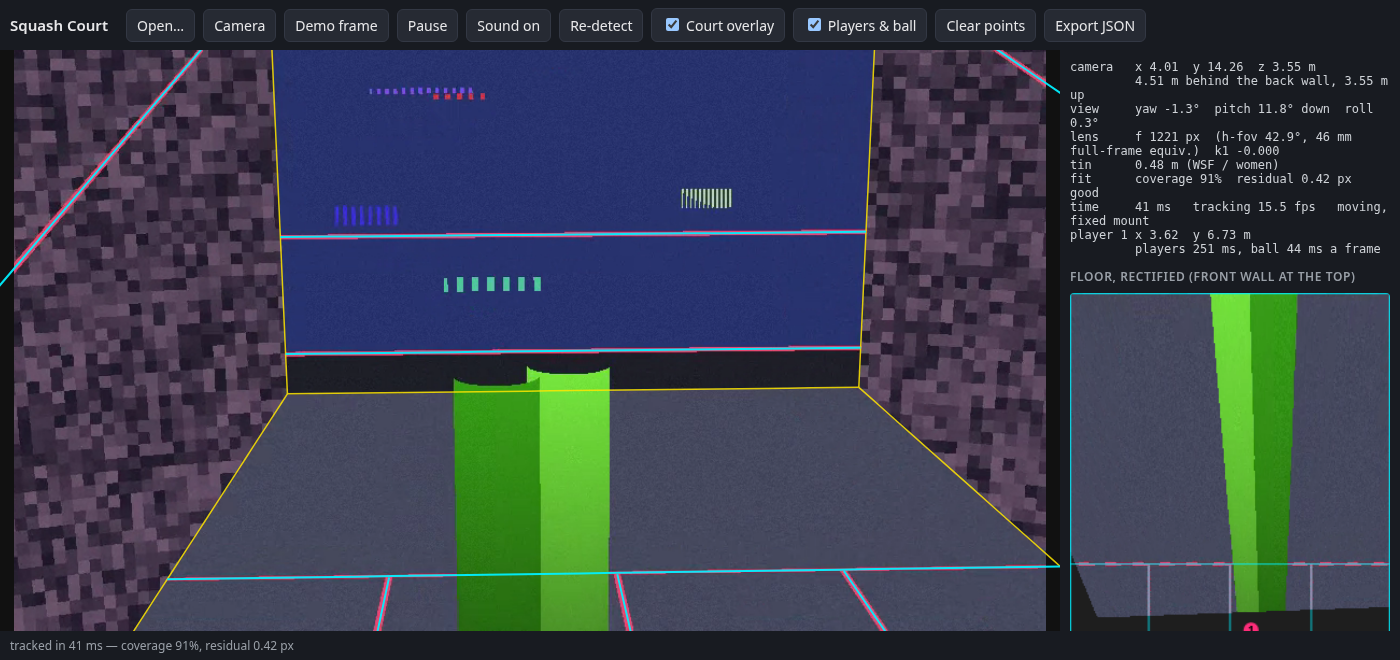
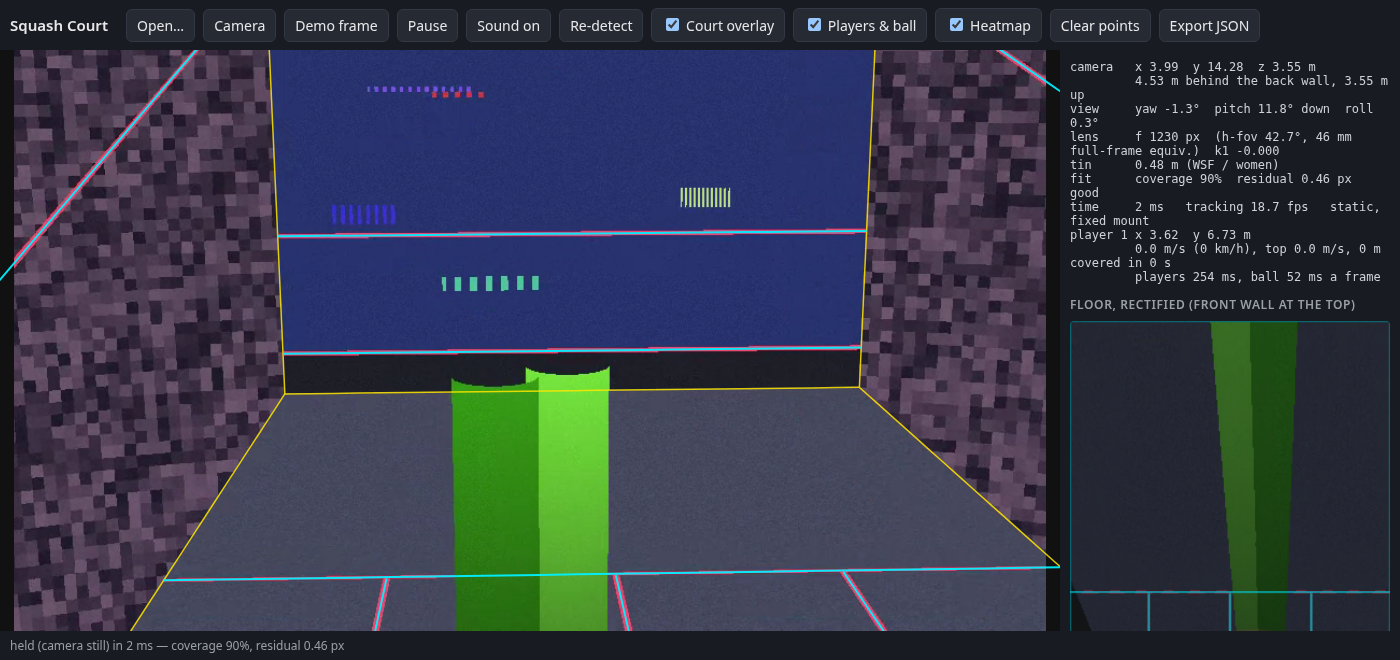
Squash Court: player and ball speeds, player heatmaps

diff --git a/vibes/squash-court/app.js b/vibes/squash-court/app.js
@@ -28,9 +28,43 @@ const S = {
   live: false, procFrame: null, sound: true,
   // players and ball (rally.js in the worker): players [{ id, X, seen, occluded, box }], the live
   // ball pixel, and fitted flights { t0, t1, pts: [{ t, X }], uv, impacts, labels, speed }
-  showRally: true, players: [], ball: null, ballTrail: [], flights: [], rallyMs: {},
+  showRally: true, showHeat: true, players: [], ball: null, ballTrail: [], flights: [], rallyMs: {},
 };
-const clearRally = () => { S.players = []; S.ball = null; S.ballTrail = []; S.flights = []; S.rallyMs = {}; for (const R of rallyW) R.reset = true; };
+// Per player: recent positions (speed), distance covered and time spent per 25 cm floor cell
+// (the heatmap). Kept in the page, fed by the players worker's tracked positions.
+const HM = 0.25, HX = Math.ceil(CW / HM), HY = Math.ceil(CL / HM);
+const newStats = () => ({});
+S.stats = newStats();
+function statFor(id) { return S.stats[id] ??= { hist: [], dist: 0, time: 0, heat: new Float32Array(HX * HY), last: null, speed: 0, top: 0 }; }
+function addPlayerStats(players, t) {
+  for (const p of players) {
+    const st = statFor(p.id);
+    if (st.last && t < st.last.t) { st.hist = []; st.last = null; } // seek back
+    const dt = st.last ? Math.min(0.5, t - st.last.t) : 0.2; // a still counts once
+    if (p.seen) {
+      const cx = Math.floor(p.X[0] / HM), cy = Math.floor(p.X[1] / HM);
+      if (cx >= 0 && cy >= 0 && cx < HX && cy < HY && dt > 0) { st.heat[cy * HX + cx] += dt; st.time += dt; }
+      if (st.last && dt > 0) st.dist += Math.hypot(p.X[0] - st.last.X[0], p.X[1] - st.last.X[1]);
+      st.hist.push({ t, X: p.X.slice() });
+    }
+    st.last = { t, X: p.X.slice() };
+    // speed: least-squares slope over the last 0.6 s (detections ~5 a second, feet jitter by cm)
+    st.hist = st.hist.filter((q) => q.t > t - 0.6);
+    if (st.hist.length >= 3) {
+      const n = st.hist.length, mt = st.hist.reduce((s, q) => s + q.t, 0) / n, mx = st.hist.reduce((s, q) => s + q.X[0], 0) / n, my = st.hist.reduce((s, q) => s + q.X[1], 0) / n;
+      let tt = 0, tx = 0, ty = 0; for (const q of st.hist) { const d = q.t - mt; tt += d * d; tx += d * (q.X[0] - mx); ty += d * (q.X[1] - my); }
+      st.speed = tt > 1e-6 ? Math.hypot(tx / tt, ty / tt) : 0; st.top = Math.max(st.top, Math.min(st.speed, 8));
+    } else st.speed = 0;
+  }
+}
+// the ball's speed now: the fitted flight's velocity at the frame nearest the current time
+function ballNow() {
+  const t = S.src?.currentTime; if (t == null) return null;
+  for (const f of S.flights) if (t >= f.t0 - 0.02 && t <= f.t1 + 0.02) { const q = f.pts.reduce((a, b) => (Math.abs(b.t - t) < Math.abs(a.t - t) ? b : a)); if (q.V) return { X: q.X, speed: Math.hypot(...q.V) }; }
+  return null;
+}
+const kmh = (v) => `${v.toFixed(1)} m/s (${(v * 3.6).toFixed(0)} km/h)`;
+const clearRally = () => { S.stats = newStats(); S.players = []; S.ball = null; S.ballTrail = []; S.flights = []; S.rallyMs = {}; for (const R of rallyW) R.reset = true; };
 window.__sq = S;
 
 // ---------- worker ----------
@@ -107,7 +141,7 @@ async function analyse(mode = 'detect') {
 function takeRally(q, k) {
   if (q.dup || !S.showRally) return;
   S.rallyMs[q.mode === 'ball' ? 'ball' : 'players'] = q.ms;
-  if (q.players) S.players = q.players.map((p) => ({ ...p, box: p.box && p.box.map((v) => v / k) }));
+  if (q.players) { S.players = q.players.map((p) => ({ ...p, box: p.box && p.box.map((v) => v / k) })); addPlayerStats(S.players, S.src.currentTime ?? 0); }
   if (q.mode !== 'ball') return;
   S.ball = q.ball && { u: q.ball.u / k, v: q.ball.v / k, t: q.ball.t };
   if (S.ball) S.ballTrail.push(S.ball);
@@ -232,7 +266,7 @@ function drawRallyStage(map, dpr) {
     for (let a = 0; a <= 24; a++) { const u = c.project([p.X[0] + 0.28 * Math.cos(a / 24 * 2 * Math.PI), p.X[1] + 0.28 * Math.sin(a / 24 * 2 * Math.PI), 0]); if (!(u[2] > 0)) continue; const [x, y] = map(u); first ? sctx.moveTo(x, y) : sctx.lineTo(x, y); first = false; }
     sctx.stroke(); sctx.setLineDash([]);
     const u = c.project([p.X[0], p.X[1], 0]); if (!(u[2] > 0)) continue; const [x, y] = map(u);
-    sctx.font = `${12 * dpr}px system-ui`; sctx.fillStyle = '#000a'; const s = `P${p.id}  ${p.X[0].toFixed(2)}, ${p.X[1].toFixed(2)} m`;
+    sctx.font = `${12 * dpr}px system-ui`; sctx.fillStyle = '#000a'; const sp = S.stats[p.id]?.speed, s = `P${p.id}  ${p.X[0].toFixed(2)}, ${p.X[1].toFixed(2)} m${sp > 0.3 ? `  ${sp.toFixed(1)} m/s` : ''}`;
     sctx.fillRect(x + 14 * dpr, y - 6 * dpr, sctx.measureText(s).width + 6 * dpr, 16 * dpr); sctx.fillStyle = pcol(p); sctx.fillText(s, x + 17 * dpr, y + 6 * dpr);
   }
   sctx.lineWidth = 2.5 * dpr;
@@ -242,6 +276,7 @@ function drawRallyStage(map, dpr) {
     sctx.stroke();
     for (const m of f.impacts) { const u = c.project(m.X); if (!(u[2] > 0)) continue; const [x, y] = map(u); sctx.fillStyle = '#ff8a00'; sctx.beginPath(); sctx.arc(x, y, 4 * dpr, 0, 7); sctx.fill(); }
   }
+  const bn = ballNow(); if (bn) { const u = c.project(bn.X); if (u[2] > 0) { const [x, y] = map(u); sctx.font = `${12 * dpr}px system-ui`; sctx.fillStyle = '#ffe600'; sctx.fillText(`${(bn.speed * 3.6).toFixed(0)} km/h`, x + 9 * dpr, y - 9 * dpr); sctx.beginPath(); sctx.arc(x, y, 4 * dpr, 0, 7); sctx.fill(); } }
   sctx.strokeStyle = '#39ff6a'; sctx.lineWidth = 1.5 * dpr;
   for (const b of S.ballTrail) { const [x, y] = map([b.u, b.v]); sctx.strokeRect(x - 6 * dpr, y - 6 * dpr, 12 * dpr, 12 * dpr); }
 }
@@ -268,6 +303,7 @@ function drawPlan() {
   for (const l of MODEL.lines) if (l.kind === 'floor') { pctx.beginPath(); pctx.moveTo(l.a[0] * s, l.a[1] * s); pctx.lineTo(l.b[0] * s, l.b[1] * s); pctx.stroke(); }
   pctx.strokeRect(0.5, 0.5, plan.width - 1, plan.height - 1);
   for (const p of S.picks) if (p.surface === 'floor') { pctx.fillStyle = '#ff2d7a'; pctx.beginPath(); pctx.arc(p.X[0] * s, p.X[1] * s, 4, 0, 7); pctx.fill(); }
+  if (S.showHeat) drawHeat(s);
   if (S.showRally) {
     // the ball's ground track (shadow), floor bounces, players
     for (const f of recentFlights()) {
@@ -282,6 +318,29 @@ function drawPlan() {
   }
   // where the camera stands, if it is on the plan
   if (S.cam) { const C = S.cam.C; pctx.fillStyle = '#ffe600'; pctx.fillText(C[1] > CL ? `▼ camera ${(C[1] - CL).toFixed(1)} m behind` : '● camera', Math.max(4, Math.min(plan.width - 90, C[0] * s - 20)), Math.min(plan.height - 6, C[1] * s)); }
+}
+// Heatmap: time each player spent per 25 cm cell, blurred, in the player's colour, each scaled to
+// its own busiest cell. Drawn small and scaled up, so the canvas smooths it.
+const heatCnv = document.createElement('canvas'); heatCnv.width = HX; heatCnv.height = HY;
+function drawHeat(s) {
+  const hc = heatCnv.getContext('2d'), img = hc.createImageData(HX, HY), ids = Object.keys(S.stats);
+  const blur = (a) => { const o = new Float32Array(a.length); for (let y = 0; y < HY; y++) for (let x = 0; x < HX; x++) { let v = 0, w = 0; for (let j = -1; j <= 1; j++) for (let i = -1; i <= 1; i++) { const X = x + i, Y = y + j; if (X < 0 || Y < 0 || X >= HX || Y >= HY) continue; const k = i || j ? (i && j ? 0.25 : 0.5) : 1; v += a[Y * HX + X] * k; w += k; } o[y * HX + x] = v / w; } return o; };
+  for (const id of ids) {
+    const h = blur(S.stats[id].heat), mx = Math.max(...h); if (!(mx > 0)) continue;
+    const c = PCOL[(id - 1) % PCOL.length], rgb = [1, 3, 5].map((i) => parseInt(c.slice(i, i + 2), 16));
+    for (let i = 0; i < h.length; i++) {
+      const a = Math.sqrt(h[i] / mx); if (a < 0.04) continue;
+      const o = i * 4, A = img.data[o + 3] / 255, al = Math.min(1, a * 0.85);
+      for (let k = 0; k < 3; k++) img.data[o + k] = (img.data[o + k] * A + rgb[k] * al) / Math.max(1e-6, A + al);
+      img.data[o + 3] = Math.min(255, (A + al - A * al) * 255);
+    }
+  }
+  hc.putImageData(img, 0, 0);
+  if (ids.length) { pctx.fillStyle = 'rgba(10,12,16,0.55)'; pctx.fillRect(0, 0, plan.width, plan.height); } // dim the floor so the heat reads
+  pctx.save(); pctx.imageSmoothingEnabled = true; pctx.globalAlpha = 0.9; pctx.drawImage(heatCnv, 0, 0, HX * HM * s, HY * HM * s); pctx.restore();
+  // the court lines again on top
+  pctx.strokeStyle = 'rgba(0,240,255,0.8)'; pctx.lineWidth = 1;
+  for (const l of MODEL.lines) if (l.kind === 'floor') { pctx.beginPath(); pctx.moveTo(l.a[0] * s, l.a[1] * s); pctx.lineTo(l.b[0] * s, l.b[1] * s); pctx.stroke(); }
 }
 function drawWall() {
   const s = wall.width / CW; // front wall, 0 … 5 m high
@@ -332,9 +391,10 @@ function readout() {
     `time     ${S.ms ? Math.round(S.ms.wall) + ' ms' : ''}${hz ? `   tracking ${hz.toFixed(1)} fps` : ''}${S.live && S.path ? `   ${S.path}${S.mount === 'free' ? ', camera moving' : ', fixed mount'}` : ''}`,
   ];
   if (S.showRally) {
-    for (const p of S.players) lines.push(`player ${p.id} x ${p.X[0].toFixed(2)}  y ${p.X[1].toFixed(2)} m${p.occluded ? '  (feet hidden: from the head)' : ''}${p.seen ? '' : '  (coasting)'}`);
+    for (const p of S.players) { const st = S.stats[p.id]; lines.push(`player ${p.id} x ${p.X[0].toFixed(2)}  y ${p.X[1].toFixed(2)} m${p.occluded ? '  (feet hidden: from the head)' : ''}${p.seen ? '' : '  (coasting)'}`); if (st && S.live) lines.push(`         ${kmh(st.speed)}, top ${st.top.toFixed(1)} m/s, ${st.dist.toFixed(0)} m covered in ${st.time.toFixed(0)} s`); }
+    const bn = ballNow(); if (bn) lines.push(`ball now ${kmh(bn.speed)}`);
     const f = recentFlights().slice(-1)[0];
-    if (f) { const a = f.pts[0].X, e = f.pts[f.pts.length - 1].X, v = (X) => `${X[0].toFixed(1)}, ${X[1].toFixed(1)}, ${X[2].toFixed(1)}`; lines.push(`ball     ${f.t0.toFixed(2)}–${f.t1.toFixed(2)} s  (${v(a)}) → (${v(e)}) m, ${f.speed.toFixed(0)} m/s${f.impacts.length ? '  hit ' + f.impacts.map((m) => m.plane).join(', ') : ''}`); }
+    if (f) { const a = f.pts[0].X, e = f.pts[f.pts.length - 1].X, v = (X) => `${X[0].toFixed(1)}, ${X[1].toFixed(1)}, ${X[2].toFixed(1)}`; lines.push(`ball     ${f.t0.toFixed(2)}–${f.t1.toFixed(2)} s  (${v(a)}) → (${v(e)}) m, ${(f.speed * 3.6).toFixed(0)} km/h off the hit${f.impacts.length ? '  hit ' + f.impacts.map((m) => m.plane).join(', ') : ''}`); }
     if (S.rallyMs.players != null) lines.push(`         players ${Math.round(S.rallyMs.players)} ms${S.rallyMs.ball != null ? `, ball ${Math.round(S.rallyMs.ball)} ms` : ''} a frame`);
   }
   if (S.truth && !S.live) lines.push(`truth    x ${S.truth.C[0].toFixed(2)}  y ${S.truth.C[1].toFixed(2)}  z ${S.truth.C[2].toFixed(2)} m, f ${S.truth.f.toFixed(0)} px`);
@@ -354,7 +414,8 @@ function exportJSON() {
     P: c.matrix(), H_floor: c.homography('floor'), H_frontWall: c.homography('front'),
     angles: c.angles(), quality: S.quality,
     time: S.src?.currentTime ?? null,
-    players: S.players.map((p) => ({ id: p.id, x: p.X[0], y: p.X[1], seen: p.seen, feetHidden: p.occluded })),
+    players: S.players.map((p) => ({ id: p.id, x: p.X[0], y: p.X[1], seen: p.seen, feetHidden: p.occluded, speed: S.stats[p.id]?.speed ?? null })),
+    playerStats: Object.fromEntries(Object.entries(S.stats).map(([id, st]) => [id, { distance: st.dist, seconds: st.time, topSpeed: st.top, heatmap: { cell: HM, nx: HX, ny: HY, note: 'seconds per cell, row-major from x = 0, y = 0', seconds: Array.from(st.heat, (v) => +v.toFixed(3)) } }])),
     ball: S.flights.map((f) => ({ t0: f.t0, t1: f.t1, speed: f.speed, impacts: f.impacts, points: f.pts })),
   };
   const a = document.createElement('a'); a.href = URL.createObjectURL(new Blob([JSON.stringify(data, null, 2)], { type: 'application/json' })); a.download = 'squash-court.json'; a.click();
@@ -367,6 +428,7 @@ $('camera').onclick = useCamera;
 $('demo').onclick = demo;
 $('redetect').onclick = () => { S.fails = 9; if (!S.live) analyse('detect'); };
 $('lines').onchange = (e) => { S.showLines = e.target.checked; draw(); };
+$('heat').onchange = (e) => { S.showHeat = e.target.checked; draw(); };
 $('rally').onchange = (e) => { S.showRally = e.target.checked; clearRally(); if (S.showRally && !S.live && S.cam && S.procFrame) runRally(S.procFrame, scaleCam(S.cam, S.procFrame.k, S.procFrame.img.width, S.procFrame.img.height), 0, false); draw(); };
 $('export').onclick = exportJSON;
 $('clear').onclick = () => { S.picks = []; draw(); };

diff --git a/vibes/squash-court/players.js b/vibes/squash-court/players.js
@@ -145,7 +145,7 @@ export function detectPlayers(rgba, W, H, cam, opt = {}) {
   // sits on top of the score bug)
   const hidden = new Uint8Array(w * h), rects = opt.overlays ?? findOverlays(rgba, W, H);
   for (const [x0, y0, x1, y1] of rects) {
-    const mx = 0.012 * W, my = 0.65 * (y1 - y0);
+    const mx = 0.012 * W, my = 0.2 * (y1 - y0);
     for (let y = Math.max(0, Math.floor((y0 - my) / S.k)); y < Math.min(h, Math.ceil((y1 + 0.01 * H) / S.k)); y++) for (let x = Math.max(0, Math.floor((x0 - mx) / S.k)); x < Math.min(w, Math.ceil((x1 + mx) / S.k)); x++) hidden[y * w + x] = 1;
   }
   if (opt.staticMask) for (let i = 0; i < w * h; i++) if (opt.staticMask(i)) hidden[i] = 1;
@@ -237,7 +237,17 @@ function refineFeet(fg, S, cam, w, h, hidden, hit, boxAt, opt) {
   const rowHidden = (y) => { for (let x = Math.max(0, cx0); x <= Math.min(w - 1, cx1); x++) if (hidden[y * w + x]) return true; return false; };
   let y = Math.round(B.y0 + 0.5 * Hp), last = -1, gap = 0;
   while (y > B.y0 && rowHidden(y)) y--; // the box's middle is behind a graphic: start above it
-  for (; y < Math.min(h, B.y1 + 0.3 * Hp); y++) { if (rowHas(y) >= 2) { last = y; gap = 0; } else if (++gap > Math.max(3, 0.15 * Hp)) break; }
+  let lim = Math.min(h, B.y1 + 0.3 * Hp);
+  for (; y < lim; y++) {
+    if (rowHas(y) >= 2) { last = y; gap = 0; continue; }
+    if (rowHidden(y)) {
+      // a graphic across the legs: the feet may show below it (a player in front of the score bug)
+      let y2 = y; while (y2 < h && rowHidden(y2)) y2++;
+      let below = -1; for (let yy = y2; yy < Math.min(h, y2 + Math.max(3, 0.15 * Hp)); yy++) if (rowHas(yy) >= 2) { below = yy; break; }
+      if (below >= 0 && last >= 0 && below - last < 0.7 * Hp) { y = below - 1; gap = 0; lim = Math.min(h, Math.max(lim, below + 0.3 * Hp)); continue; }
+    }
+    if (++gap > Math.max(3, 0.15 * Hp)) break;
+  }
   if (last < 0) return { why: 'no fg below' };
   if (last >= h - 2) return { why: 'feet below frame' }; // the feet are below the frame
   // a graphic right below: the feet may be behind it, unless the person above is complete
@@ -340,6 +350,8 @@ export class PlayerTracker {
       k.t = t; k.miss = 0; k.det = d; done.add(k); used.add(d);
     }
     for (const k of T) if (!done.has(k)) { k.miss++; k.det = null; k.X = k.pred; k.t = t; k.v = k.v.map((v) => v * 0.7); }
+    // a coasting (or noisy) track stays in the court and stops at its walls
+    for (const k of T) { const c = [Math.max(-0.1, Math.min(CW + 0.1, k.X[0])), Math.max(0.1, Math.min(CL + 0.1, k.X[1]))]; if (c[0] !== k.X[0]) k.v[0] = 0; if (c[1] !== k.X[1]) k.v[1] = 0; k.X = c; }
     this.tracks = T.filter((k) => k.miss < 12);
     for (const d of dets) if (!used.has(d) && this.tracks.length < 2) this.tracks.push({ id: this.nextId(), X: d.X.slice(), v: [0, 0], t, miss: 0, det: d });
     return this.tracks.map((k) => ({ id: k.id, X: k.X.slice(), v: k.v.slice(), seen: k.miss === 0, occluded: !!k.det?.occluded }));

diff --git a/vibes/squash-court/rally.js b/vibes/squash-court/rally.js
@@ -83,6 +83,9 @@ export class Rally {
     const span = Math.hypot(pts[pts.length - 1].u - pts[0].u, pts[pts.length - 1].v - pts[0].v);
     let path = 0; for (let i = 1; i < pts.length; i++) path += Math.hypot(pts[i].u - pts[i - 1].u, pts[i].v - pts[i - 1].v);
     if (span < 12 * s || span / (pts[pts.length - 1].t - pts[0].t) < 150 * s) return null; // still, or drifting: a spectator, a reflection, a racket held up
+    // cheap first: a flight's image path is smooth in time (a quadratic fits it to a few px; tracks
+    // here do not join across impacts), a jittering limb or reflection is not. Only those go to 3D.
+    if (smooth2D(pts) > 8 * Math.max(1, s)) return null;
     const segs = cutTrack(pts, cam, { tol: 2.5 * Math.max(1, s) });
     if (!segs.length) return null;
     const used = segs.reduce((n, [a, b]) => n + b - a + 1, 0);
@@ -95,11 +98,28 @@ export class Rally {
     if (speeds.some((v) => v > 75) || Math.max(...speeds) < 4) return null; // slower than a drop shot: a spectator through the glass
     return {
       t0: pts[0].t, t1: pts[pts.length - 1].t, rms: F.rms, labels: F.labels, speed: Math.max(...speeds),
-      pts: P3.map((q) => ({ t: q.t, X: q.X })), uv: pts.map((q) => [q.u, q.v]),
+      pts: P3.map((q) => ({ t: q.t, X: q.X, V: q.V })), uv: pts.map((q) => [q.u, q.v]),
       impacts: F.impacts.map((m) => ({ t: m.t, X: m.X, plane: m.plane })),
     };
   }
 }
 
+// rms (px) of the best quadratic in time through a track's u and v
+function smooth2D(pts) {
+  const t0 = pts[0].t, T = pts.map((p) => p.t - t0), n = pts.length;
+  const fit = (y) => { // least squares y = a + b t + c t^2 via normal equations
+    const S = [0, 0, 0, 0, 0], R = [0, 0, 0];
+    for (let i = 0; i < n; i++) { let p = 1; for (let k = 0; k < 5; k++) { S[k] += p; if (k < 3) R[k] += p * y[i]; p *= T[i]; } }
+    const M = [[S[0], S[1], S[2]], [S[1], S[2], S[3]], [S[2], S[3], S[4]]], x = solve3(M, R);
+    if (!x) return Infinity;
+    let e = 0; for (let i = 0; i < n; i++) { const d = x[0] + x[1] * T[i] + x[2] * T[i] * T[i] - y[i]; e += d * d; } return e / n;
+  };
+  return Math.sqrt(fit(pts.map((p) => p.u)) + fit(pts.map((p) => p.v)));
+}
+function solve3(M, r) {
+  const d = (m) => m[0][0] * (m[1][1] * m[2][2] - m[1][2] * m[2][1]) - m[0][1] * (m[1][0] * m[2][2] - m[1][2] * m[2][0]) + m[0][2] * (m[1][0] * m[2][1] - m[1][1] * m[2][0]);
+  const D = d(M); if (Math.abs(D) < 1e-18) return null;
+  return [0, 1, 2].map((j) => d(M.map((row, i) => row.map((v, k) => (k === j ? r[i] : v)))) / D);
+}
 const now = () => (typeof performance !== 'undefined' ? performance.now() : Date.now());
 function meanDiff(a, b) { let s = 0; const n = Math.min(a.length, b.length), step = 7; let m = 0; for (let i = 0; i < n; i += step) { s += Math.abs(a[i] - b[i]); m++; } return s / m; }

diff --git a/vibes/squash-court/smoke.js b/vibes/squash-court/smoke.js
@@ -80,6 +80,9 @@ const check = (name, ok, extra = '') => { console.log(`${ok ? 'ok  ' : 'FAIL'} $
     check('video tracked frame to frame', v.trk.length >= 2 && fps > 8, `${v.frames - f0} frames analysed in the last 1 s, tracking ${fps.toFixed(1)} fps (last: worker ${v.wms?.total?.toFixed(1)} ms of ${v.wms?.wall?.toFixed(1)} ms)`);
     check('tracked camera follows the clip (within 25 cm)', best < 0.25 && v.ok, `${(best * 100).toFixed(1)} cm at ${v.t.toFixed(2)} s (${v.path}, ${v.mount} mount, analysed ${v.tA?.toFixed(2)} s)`);
     const vp = await b.evaluate(`({n:__sq.players.length,ms:__sq.rallyMs.players,mb:__sq.rallyMs.ball,X:__sq.players.map(p=>p.X.map(v=>+v.toFixed(2)))})`);
+    await waitFor(() => b.evaluate('__sq.players.length > 0 && __sq.rallyMs.players != null'), 10000).catch(() => {});
+    const hs = await b.evaluate(`(()=>{const st=Object.values(__sq.stats);return {n:st.length,sec:st.reduce((s,q)=>s+q.heat.reduce((a,v)=>a+v,0),0),sp:st.map(q=>q.speed)}})()`);
+    check('video: heatmap and player speeds accumulate', hs.n > 0 && hs.sec > 0.1 && hs.sp.every((v) => v >= 0 && v < 9), `${hs.n} players, ${hs.sec.toFixed(1)} s in the heatmap, speeds ${hs.sp.map((v) => v.toFixed(1)).join(', ')} m/s`);
     check('video: players and ball run in their own workers', vp.n > 0 && vp.ms != null && vp.mb != null, `${vp.n} players ${JSON.stringify(vp.X)}, players ${Math.round(vp.ms)} ms, ball ${Math.round(vp.mb)} ms a frame`);
     await shot('video');
     const errors = [];

diff --git a/vibes/squash-court/overlays.js b/vibes/squash-court/overlays.js
@@ -44,6 +44,16 @@ export function findOverlays(rgba, W, H, opt = {}) {
       rects.push([grow(Math.max(a.x0, b.x0), -1) * k, a.y0 * k, (grow(Math.min(a.x1, b.x1), 1) + 1) * k, (b.y + 1) * k]);
     }
   }
+  // caption tabs ("GAME BALL", a player's name) sit on top of a score bug: a row edge a little above
+  // a found rectangle, within its width, closes a tab whether or not its short sides show
+  for (const R of rects.slice()) {
+    const top = R[1] / k;
+    for (const a of edges) {
+      const dy = top - a.y; if (dy < h * 0.018 || dy > h * 0.07) continue;
+      if (a.x0 * k < R[0] - 4 * k || (a.x1 + 1) * k > R[2] + 4 * k || a.x1 - a.x0 > 0.9 * (R[2] - R[0]) / k) continue;
+      rects.push([a.x0 * k, a.y0 * k, (a.x1 + 1) * k, R[1]]);
+    }
+  }
   return rects;
 }
 

diff --git a/vibes/squash-court/index.html b/vibes/squash-court/index.html
@@ -39,6 +39,7 @@
   <button id="redetect">Re-detect</button>
   <label class="chk"><input id="lines" type="checkbox" checked> Court overlay</label>
   <label class="chk" title="Players' feet and the ball, in metres"><input id="rally" type="checkbox" checked> Players &amp; ball</label>
+  <label class="chk" title="Where each player spent their time, on the floor plan"><input id="heat" type="checkbox" checked> Heatmap</label>
   <button id="clear">Clear points</button>
   <button id="export">Export JSON</button>
 </header>

diff --git a/vibes/squash-court/ball.js b/vibes/squash-court/ball.js
@@ -20,7 +20,7 @@ export const K = 1.2 * 0.5 * Math.PI * BALL_R * BALL_R / (2 * 0.024);
 
 // Integrate one flight from X0, V0 for duration T, returning the position at the requested times.
 export function flight(X0, V0, times, k = K) {
-  const out = [], h = 1 / 400;
+  const out = [], h = 1 / 100; // RK2: under 0.1 mm off a 1/400 s step over a 1 s flight
   let x = X0.slice(), v = V0.slice(), t = 0;
   const ts = times.map((t, i) => [t, i]).sort((a, b) => a[0] - b[0]);
   for (const [tt, i] of ts) {
